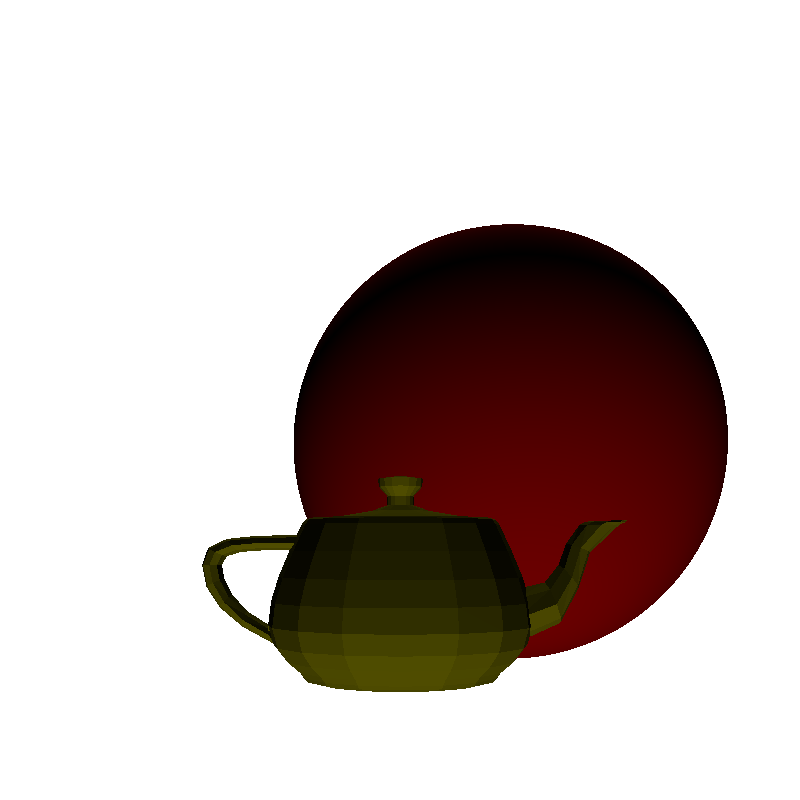
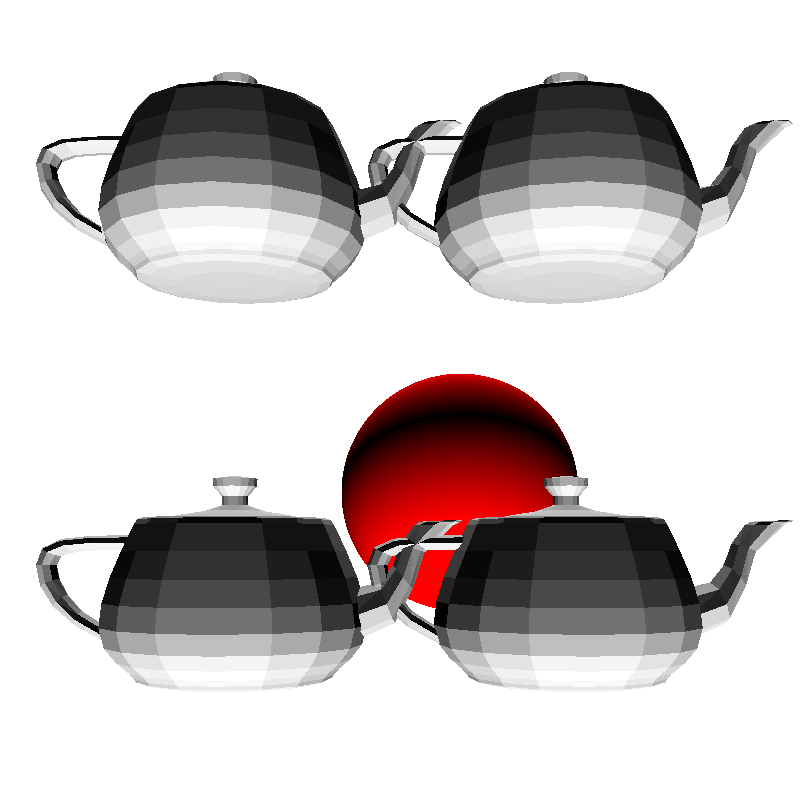
Bug Fixes

diff --git a/src/Render/Raytracer.java b/src/Render/Raytracer.java
@@ -53,7 +53,29 @@ public abstract class Raytracer {
                     float red = (float)((ligth.getIntensity() * ligth.getColor().getRed() * pixelColor.getRed()) * (Vector3.dotProduct(closestIntersection.getNormal(), ligth.getDirection())))/255;
                     float blue = (float)((ligth.getIntensity() * ligth.getColor().getBlue() * pixelColor.getBlue()) * (Vector3.dotProduct(closestIntersection.getNormal(), ligth.getDirection())))/255;
                     float green = (float)((ligth.getIntensity() * ligth.getColor().getGreen() * pixelColor.getGreen()) * (Vector3.dotProduct(closestIntersection.getNormal(), ligth.getDirection())))/255;
-                    Color colorWithShades = new Color((Math.abs(red)/255),(Math.abs(green)/255),(Math.abs(blue/255)));
+                    red = (Math.abs(red));
+                    green = (Math.abs(green));
+                    blue = (Math.abs(blue));
+
+                    if(blue < 0)
+                        blue = 0;
+
+                    if(green < 0)
+                        green = 0;
+
+                    if(red < 0)
+                        red = 0;
+
+                    if(blue > 255)
+                        blue = 255;
+
+                    if(green > 255)
+                        green = 255;
+
+                    if(red > 255)
+                        red = 255;
+
+                    Color colorWithShades = new Color(red/255,green/255,blue/255);
                     pixelColor = colorWithShades;
 
                 }

diff --git a/src/Main.java b/src/Main.java
@@ -24,13 +24,16 @@ public class Main {
 
         Scene scene01 = new Scene();
         scene01.setCamera(new Camera(new Vector3(0, 1f, -8), 0,200, 160, 160, 800,800));
-        scene01.addLigth(new DirectionalLigth(new Vector3(0,1,1),new Color(150, 145,0),.5f,Ligth.TypeOfLigth.Directional));
+        scene01.addLigth(new DirectionalLigth(new Vector3(0,1.5,1),new Color(255, 255, 255), .75f, Ligth.TypeOfLigth.Directional));
         try {
-            scene01.addObject(ObjReader.extractDataFromFileAndCreatePolygon(getData("smallTeapot.obj")));
+            scene01.addObject(ObjReader.extractDataFromFileAndCreatePolygon(getData("smallTeapot.obj"), new Vector3(1.25,0,0)));
+            scene01.addObject(ObjReader.extractDataFromFileAndCreatePolygon(getData("smallTeapot.obj"), new Vector3(-1.25,0,0)));
+            scene01.addObject(ObjReader.extractDataFromFileAndCreatePolygon(getData("smallTeapot.obj"), new Vector3(1.25,3,0)));
+            scene01.addObject(ObjReader.extractDataFromFileAndCreatePolygon(getData("smallTeapot.obj"), new Vector3(-1.25,3,0)));
         } catch (IOException e) {
             e.printStackTrace();
         }
-        scene01.addObject(new Sphere(new Vector3(1,2,2),2,Color.red));
+        scene01.addObject(new Sphere(new Vector3(1,2,10),2,Color.red));
         BufferedImage image = Raytracer.raytrace(scene01);
         File outputImage = new File("image.png");
         try {

diff --git a/src/Objects/Polygon.java b/src/Objects/Polygon.java
@@ -3,11 +3,14 @@ package Objects;
 import Render.*;
 
 import java.util.ArrayList;
+import java.util.Arrays;
+import java.util.HashSet;
+import java.util.Set;
 
 public class Polygon extends Object3D implements IIntersect {
     private ArrayList<Object3D> triangles = new ArrayList<Object3D>();
-    public Polygon() {
-        super(null,null);
+    public Polygon(Vector3 pos) {
+        super(pos,null);
     }
 
     @Override
@@ -21,6 +24,10 @@ public class Polygon extends Object3D implements IIntersect {
     public void addTriangle(Triangle triangle) {
         if (triangle == null)
             return;
+        triangle.setPosition(Vector3.add(triangle.getPosition() , getPosition()));
+        triangle.setPosition2(Vector3.add(triangle.getPosition2() , getPosition()));
+        triangle.setPosition3(Vector3.add(triangle.getPosition3() , getPosition()));
+
         triangles.add(triangle);
     }
 

diff --git a/src/Tools/ObjReader.java b/src/Tools/ObjReader.java
@@ -10,8 +10,8 @@ import java.util.ArrayList;
 public abstract class ObjReader {
 
 
-    public static Polygon extractDataFromFileAndCreatePolygon(ArrayList<String> rawText) {
-        Polygon poly = new Polygon();
+    public static Polygon extractDataFromFileAndCreatePolygon(ArrayList<String> rawText, Vector3 pos) {
+        Polygon poly = new Polygon(pos);
         ArrayList<Vector3> vertices = new ArrayList<Vector3>();
         for (int index = 0; index < rawText.size(); index++) {
 
